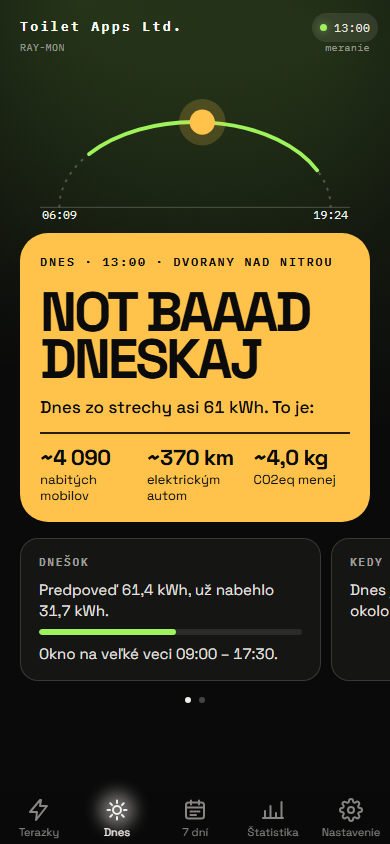
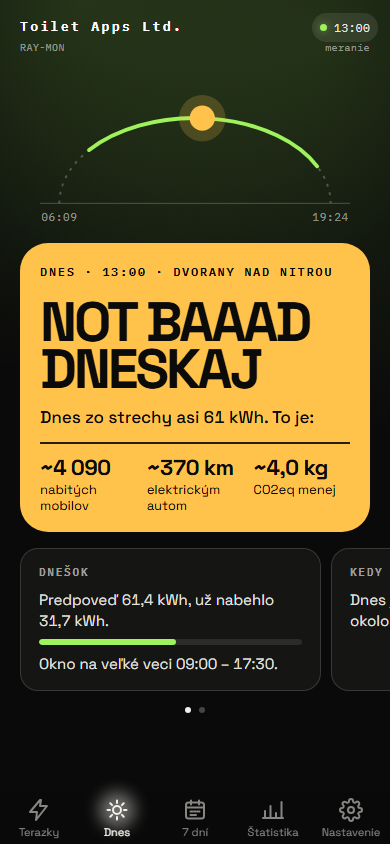
fix: dráha slnka na karte Dnes má odstup od plagátu a slnko oreže obzor (#384)
## Čo
Dráha slnka v súčasnej appke bola príliš tesne nad plagátom a pri
východe a západe slnko so žiarou zakrývalo čas. Upravené podľa návrhu
dizajnéra:
- Medzi časmi a plagátom je asi 24 px (`padding-bottom: 14px` + medzera
gridu). Bočný odstup ostáva 20 px, takže konce oblúka lícujú s textom
plagátu.
- Slnko je orezané obzorom (`clip-path: inset(… 10.6% …) view-box` na
novom obale `.arc-body`). Pri východe a západe z neho trčí len polovica
a čas pod ním je voľný.
- Časy sú štítky: 11 px, prestrkanie 0,08 em, 55 % farby textu a posun o
6 px pod obzor.
- Obal `.arc-body` vo `web/sun-arc.js` je skupina bez posunu, lebo orez
na skupine s posunom by sa počítal v jej posunutých súradniciach. Obloha
preň nemá pravidlo, takže sa nemení.

Prehliadač bez podpory `view-box` pri `clip-path` pravidlo ignoruje a
slnko len neoreže.

## Overenie
- `npm run check` aj `npx playwright test` prešli (365 testov).
- Snímky ráno, na poludnie aj v noci som pozrel, `docs/img/mozem.png` je
aktualizovaná.

🤖 Generated with [Claude Code](https://claude.com/claude-code)

diff --git a/style.css b/style.css
@@ -4146,9 +4146,10 @@ b {
     max-width: 560px;
 }
 /* Dráha slnka nad plagátom (SVG skladá web/sun-arc.js): prerušovaná dráha, zelené okno, keď slnko
-   stačí, jantárové slnko a časy východu a západu pod koncami oblúka. */
+   stačí, jantárové slnko a časy východu a západu pod koncami oblúka. Bočný odstup je ten istý ako
+   text plagátu, takže konce oblúka s ním lícujú; zospodu s medzerou gridu asi 24 px vzduchu. */
 .mozem-arc {
-    padding: 4px 20px 0;
+    padding: 0 20px 14px;
 }
 .mozem-arc svg {
     display: block;
@@ -4173,11 +4174,19 @@ b {
 .mozem-arc .arc-ground {
     stroke: var(--ink-20);
 }
+/* Slnko pod obzorom nevidno: pri východe a západe z neho trčí len polovica, a čas pod ním tak
+   nič nezakryje. Spodných 14 zo 132 jednotiek viewBoxu je pod obzorom (y 118). */
+.mozem-arc .arc-body {
+    clip-path: inset(-20% -20% 10.6% -20%) view-box;
+}
+/* Časy sú štítky, nie obsah - menšie a tlmené, aby nesúperili s plagátom. */
 .mozem-arc .arc-t {
-    fill: var(--ink);
+    fill: rgba(242, 240, 234, 0.55);
     font-family: var(--font-mono);
-    font-size: 12px;
+    font-size: 11px;
+    letter-spacing: 0.08em;
     text-anchor: middle;
+    transform: translateY(6px);
 }
 .mozem-arc .arc-glow {
     fill: rgba(255, 194, 75, 0.2);

diff --git a/web/sun-arc.js b/web/sun-arc.js
@@ -18,7 +18,9 @@ function arcPoint(f) {
 
 /**
  * Oblúk slnka: prerušovaná dráha, zelený úsek dnešného okna, slnko na dráhe (v noci mesiac)
- * a časy východu a západu. Bez dát je slnko len sivý kruh a okno nie je.
+ * a časy východu a západu. Bez dát je slnko len sivý kruh a okno nie je. Slnko je v obale
+ * `.arc-body` bez posunu, aby ho štýl appky mohol orezať obzorom (orez na skupine s posunom
+ * by sa počítal v jej posunutých súradniciach).
  * @param {SunArc} arc @param {boolean} off
  */
 export function sunArcSvg(arc, off) {
@@ -38,6 +40,6 @@ export function sunArcSvg(arc, off) {
     return (
         `<svg viewBox="0 0 320 132"><path class="arc-path" d="M${cx - rx} ${cy} A${rx} ${ry} 0 0 1 ${cx + rx} ${cy}"/>${win}` +
         `<line x1="0" y1="${cy}" x2="320" y2="${cy}" class="arc-ground"/>${label(arc.rise, cx - rx)}${label(arc.set, cx + rx)}` +
-        `<g transform="translate(${at})">${body}</g></svg>`
+        `<g class="arc-body"><g transform="translate(${at})">${body}</g></g></svg>`
     );
 }
